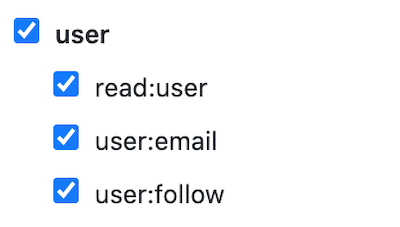
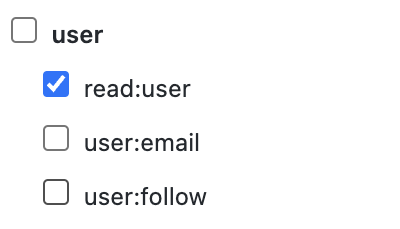
fix(scope): use read:user

diff --git a/src/Renderer/Fragment/Pref/PrefScopeErrorFragment.tsx b/src/Renderer/Fragment/Pref/PrefScopeErrorFragment.tsx
@@ -5,7 +5,7 @@ import {View} from '../../Library/View/View';
 import {Text} from '../../Library/View/Text';
 import {Button} from '../../Library/View/Button';
 import {appTheme} from '../../Library/Style/appTheme';
-import {font, fontWeight, space} from '../../Library/Style/layout';
+import {fontWeight, space} from '../../Library/Style/layout';
 import {Image} from '../../Library/View/Image';
 import {ShellUtil} from '../../Library/Util/ShellUtil';
 import {VersionPolling} from '../../Repository/Polling/VersionPolling';
@@ -31,17 +31,24 @@ export class PrefScopeErrorFragment extends React.Component<Props, State> {
       <Modal show={true} onClose={() => null}>
         <Root>
           <Text>
-            <Translate onMessage={mc => mc.prefScopeError.desc1} values={{version, notifications: <ScopeName>notifications</ScopeName>, readOrg: <ScopeName>read:org</ScopeName>}}/>
-            <br/>
-            <Translate onMessage={mc => mc.prefScopeError.desc2}/>
-            <br/>
-            <ScopeNote><Translate onMessage={mc => mc.prefScopeError.scopes}/></ScopeNote>
+            <Translate
+              onMessage={mc => mc.prefScopeError.desc}
+              values={{
+                version,
+                user: <ScopeName>read:user</ScopeName>,
+                repo: <ScopeName>repo</ScopeName>,
+                notifications: <ScopeName>notifications</ScopeName>,
+                readOrg: <ScopeName>read:org</ScopeName>
+            }}
+            />
           </Text>
 
           <Images>
             <Image source={{url: '../image/scope_readorg.png'}} style={{width: 200}}/>
             <View style={{height: space.large}}/>
             <Image source={{url: '../image/scope_notifications.png'}} style={{width: 200}}/>
+            <View style={{height: space.large}}/>
+            <Image source={{url: '../image/scope_user.png'}} style={{width: 200}}/>
           </Images>
 
           <ButtonRow>
@@ -65,12 +72,6 @@ const ScopeName = styled(Text)`
   padding: ${space.small}px;
   display: inline-block;
   border-radius: 4px;
-`;
-
-const ScopeNote = styled(Text)`
-  font-size: ${font.small}px;
-  padding-top: ${space.small}px;
-  color: ${() => appTheme().text.soft};
 `;
 
 const Images = styled(View)`

diff --git a/src/Renderer/Library/View/Translate.tsx b/src/Renderer/Library/View/Translate.tsx
@@ -132,9 +132,7 @@ type MessageCatalog = {
     open: string;
   };
   prefScopeError: {
-    desc1: string;
-    desc2: string;
-    scopes: string;
+    desc: string;
     open: string;
   };
   prefUnauthorized: {
@@ -477,9 +475,7 @@ const enMessageCatalog: MessageCatalog = {
     open: 'Open GitHub/GHE',
   },
   prefScopeError: {
-    desc1: 'Jasper v{version} requires additional {notifications} and {readOrg} scopes.',
-    desc2: 'Add these scopes to your current access tokens from the GitHub/GHE token edit screen.',
-    scopes: 'requires scopes: repo, read:user, notifications and read:org',
+    desc: 'Jasper v{version} requires {user}, {repo}, {notifications} and {readOrg} scopes.{br}Add these scopes to your current access tokens from the GitHub/GHE token edit screen.',
     open: 'Open GitHub/GHE',
   },
   prefUnauthorized: {
@@ -822,9 +818,7 @@ const jaMessageCatalog: MessageCatalog = {
     open: 'GitHub/GHEを開く',
   },
   prefScopeError: {
-    desc1: 'Jasper v{version}は追加で{notifications}と{readOrg}のスコープを必要とします。',
-    desc2: 'GitHub/GHEのトークン編集画面から、現在利用中のアクセストークンにこれらのスコープを追加してください。',
-    scopes: '必要なスコープ: repo, read:user, notifications and read:org',
+    desc: 'Jasper v{version}は{user}、{repo}、{notifications}、{readOrg}のスコープを必要とします。{br}GitHub/GHEのトークン編集画面から、現在利用中のアクセストークンにこれらのスコープを追加してください。',
     open: 'GitHub/GHEを開く',
   },
   prefUnauthorized: {

diff --git a/src/Renderer/Repository/UserPrefRepo.ts b/src/Renderer/Repository/UserPrefRepo.ts
@@ -10,7 +10,6 @@ import {ThemeNameEntity} from '../Library/Type/ThemeNameEntity';
 export function isValidScopes(scopes: RemoteGitHubHeaderEntity['scopes']): boolean {
   if (!scopes.includes('repo')) return false;
   if (!scopes.includes('user') && !scopes.includes('read:user')) return false;
-
   if (!scopes.includes('notifications')) return false;
   if (!scopes.includes('read:org') && !scopes.includes('admin:org')) return false;
   return true;
